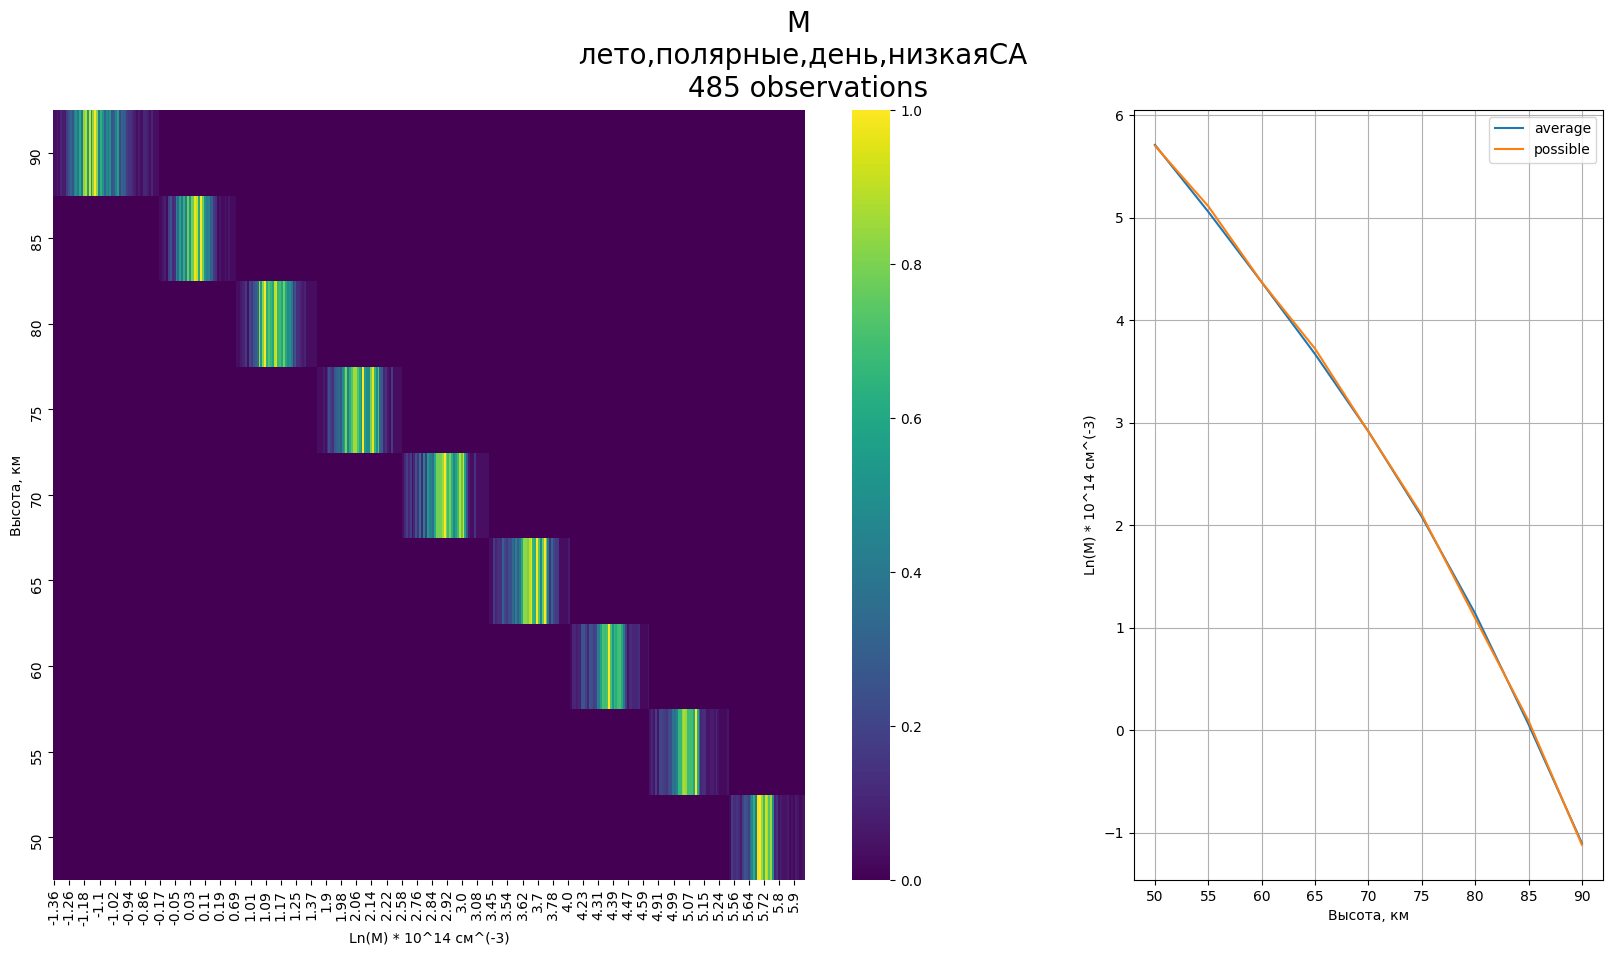
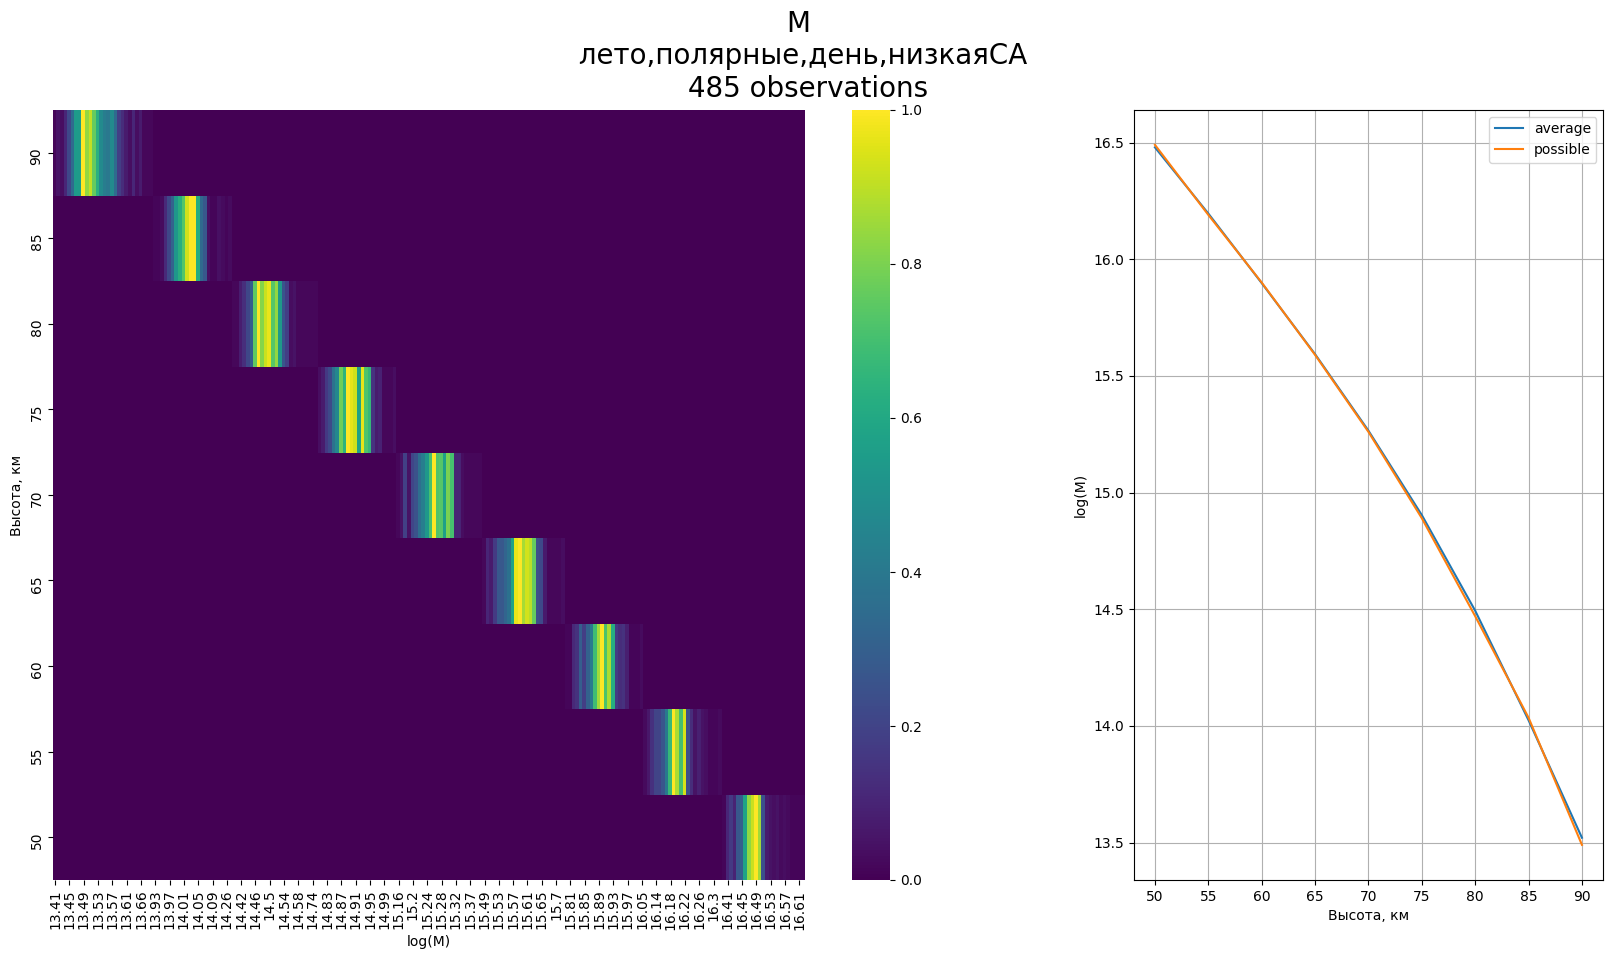
натуральный логарифм изменен на десятичный

diff --git a/python_code/kde_builder.py b/python_code/kde_builder.py
@@ -10,7 +10,7 @@ import logging
 
 _VAL_NAMES_BY_PARAM = {
     'T': 'Temperature, K',
-    'M': 'Ln(M) * 10^14 см^(-3)'
+    'M': 'log(M)'
 }
 _Y_NAMES_BY_PARAM = {
     'h': 'Высота, км',
@@ -146,7 +146,7 @@ class KdeBuilder:
         msis_df = pd.read_csv(datafile,
                               names=['h', 'N2', 'O2', 'T'],
                               dtype={'h': float, 'N2': float, 'O2': float, 'T': float})
-        msis_df['M'] = np.log((msis_df['N2'] + msis_df['O2']) * 10 ** (-14))
+        msis_df['M'] = np.log10((msis_df['N2'] + msis_df['O2']) * 10 ** (-14))
         obs_dataset = self.__generate_obs('h')
         logging.info(obs_dataset)
         counts_dataset = ps.sqldf("select y, value, cast(count(*) as float) as cnt from obs_dataset "

diff --git a/python_code/create_dataset.py b/python_code/create_dataset.py
@@ -44,8 +44,8 @@ def create_dataset(mat_file: str, param: str, sql_file_path: str, **kwargs) -> D
         summary = summary.join(P).dropna()
         logging.info(summary)
         for t, m in zip(_T_NAMES, _M_NAMES):
-            summary[m] = np.log(
-                summary[m] / (summary[t] * cs.k) * 10 ** (-6) * 10 ** (-14))
+            summary[m] = np.log10(
+                summary[m] / (summary[t] * cs.k) * 10 ** (-6))
         logging.info(summary)
 
     with open(sql_file_path, 'r') as sql_file:
